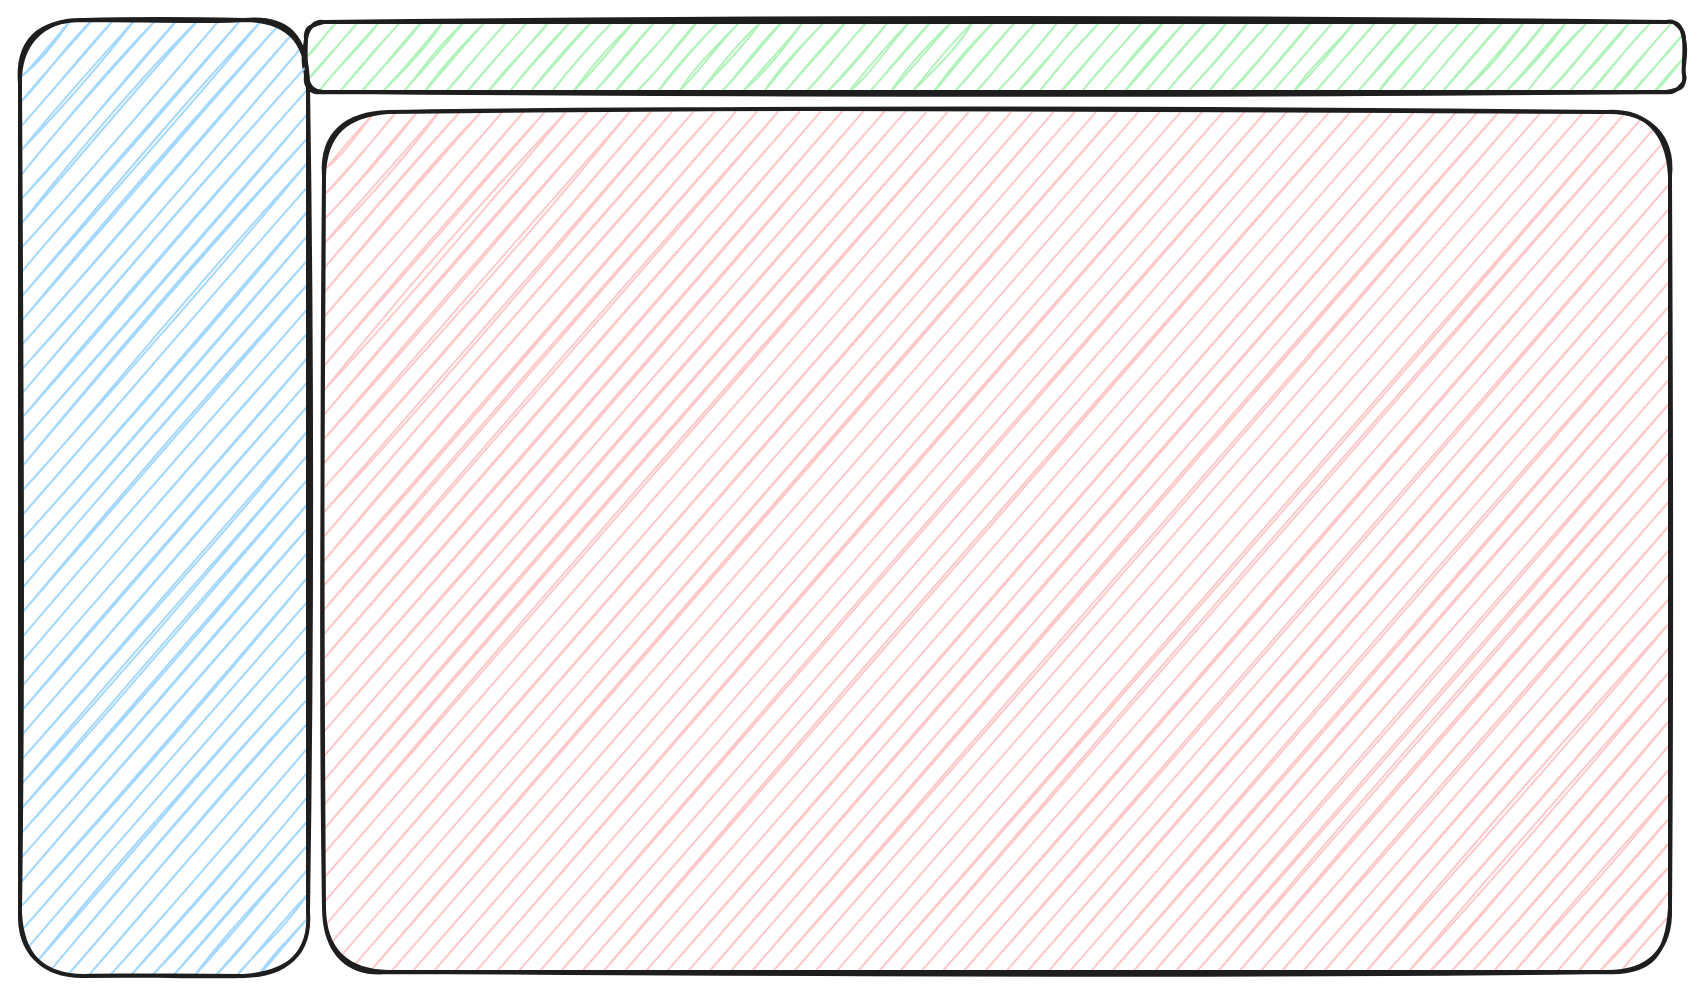
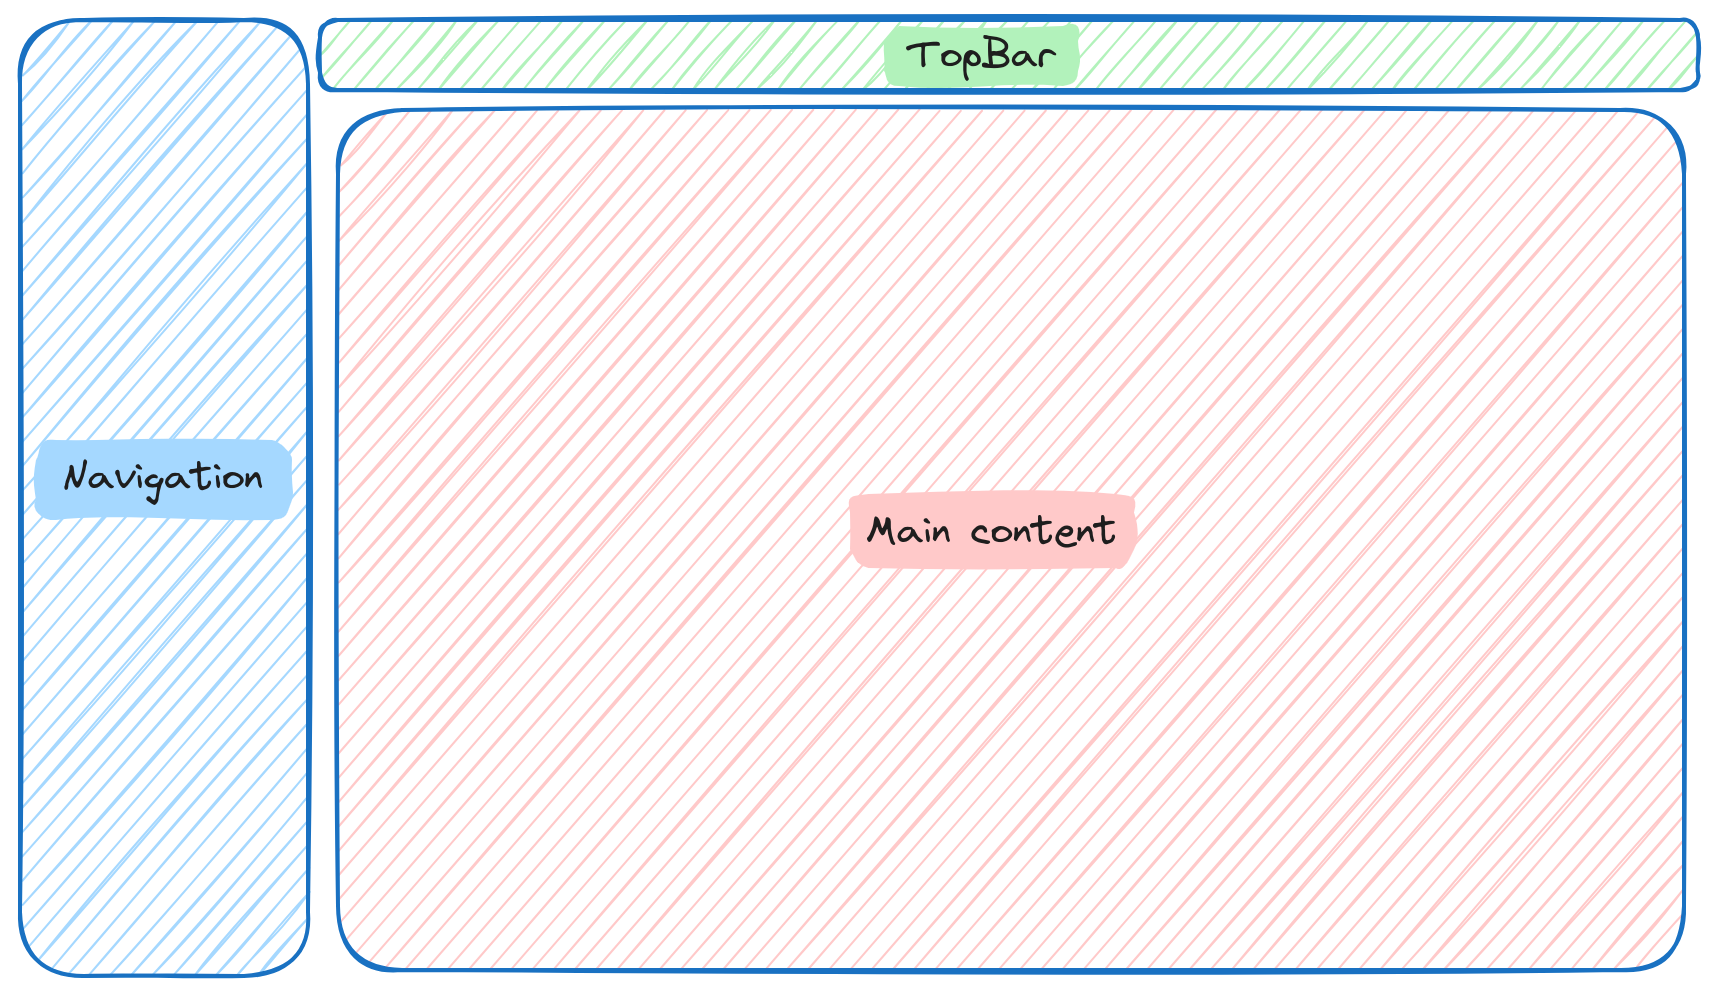
feat: rename utility section to utility slot and update docs

Changed region(s): [[0.0, 0.0, 0.9953, 0.996]]

diff --git a/src/ui/TopBar/TopBar.tsx b/src/ui/TopBar/TopBar.tsx
@@ -2,16 +2,16 @@ import { Global } from '@emotion/react';
 import { useBreakpoints, useTheme } from '@orfium/ictinus';
 import { ReactNode } from 'react';
 import Logo from '../../assets/orfium_logo.svg';
-import { _useTopBarUtilitySection } from '../../hooks/useTopBarUtilitySection';
+import { _useTopBarUtilitySlot } from '../../hooks/useTopBarUtilitySlot';
 import UserMenu, { UserMenuProps } from './components/UserMenu';
-import { backGround, TopAppBarWrapper, UserDefinedSection, UserSection } from './TopBar.styles';
+import { backGround, TopAppBarWrapper, UserDefinedSlot, UserSection } from './TopBar.styles';
 
 export type TopBarProps = {
-  utilitySection?: ReactNode;
+  utilitySlot?: ReactNode;
 } & Partial<UserMenuProps>;
 
-export function TopBar({ utilitySection, menuItems = [] }: TopBarProps) {
-  const { topBarUtilitySection } = _useTopBarUtilitySection();
+export function TopBar({ utilitySlot, menuItems = [] }: TopBarProps) {
+  const { topBarUtilitySlot } = _useTopBarUtilitySlot();
   const theme = useTheme();
   const breakpoints = useBreakpoints();
   const isDesktop = breakpoints.des1366;
@@ -20,7 +20,7 @@ export function TopBar({ utilitySection, menuItems = [] }: TopBarProps) {
     <TopAppBarWrapper role="banner" aria-label="Top Application Banner">
       <Global styles={{ body: backGround(theme) }} />
       {isDesktop ? null : <img alt={'Orfium logo'} src={Logo} height={28} width={28} />}
-      <UserDefinedSection>{topBarUtilitySection || utilitySection}</UserDefinedSection>
+      <UserDefinedSlot>{topBarUtilitySlot || utilitySlot}</UserDefinedSlot>
       <UserSection>
         <UserMenu menuItems={menuItems} />
       </UserSection>

diff --git a/src/providers/Toolbox/Toolbox.tsx b/src/providers/Toolbox/Toolbox.tsx
@@ -10,7 +10,7 @@ import ErrorFallback from '../../ui/ErrorFallback/ErrorFallback';
 import { Authentication } from '../Authentication';
 import { OrfiumProducts } from '../OrfiumProducts';
 import { Organizations } from '../Organizations';
-import { TopBarUtilitySection } from '../TopBarUtilitySection';
+import { TopBarUtilitySlot } from '../TopBarUtilitySlot';
 import { Box, LoadingContent, Wrapper } from './Toolbox.style';
 
 export type ToolboxProps = { children: ReactNode };
@@ -31,9 +31,9 @@ export function Toolbox({ children }: ToolboxProps) {
       <Organizations>
         <Authentication>
           <OrfiumProducts>
-            <TopBarUtilitySection>
+            <TopBarUtilitySlot>
               <AuthenticationWrapper>{children}</AuthenticationWrapper>
-            </TopBarUtilitySection>
+            </TopBarUtilitySlot>
           </OrfiumProducts>
         </Authentication>
       </Organizations>

diff --git a/src/hooks/useTopBarUtilitySlot.ts b/src/hooks/useTopBarUtilitySlot.ts
@@ -1,0 +1,17 @@
+import { ReactNode, useContext, useEffect } from 'react';
+import { TopBarUtilitySlotContext } from '../contexts/top-bar-utility-slot';
+
+export const _useTopBarUtilitySlot = () => useContext(TopBarUtilitySlotContext);
+export const useTopBarUtilitySlot = (topBarUtilitySlotElement: ReactNode) => {
+  const { setTopBarUtilitySlot } = useContext(TopBarUtilitySlotContext);
+
+  useEffect(() => {
+    setTopBarUtilitySlot(topBarUtilitySlotElement);
+
+    return function () {
+      setTopBarUtilitySlot(null);
+    };
+  }, [setTopBarUtilitySlot, topBarUtilitySlotElement]);
+};
+
+export type UseTopBarUtilitySlotReturnValue = undefined;

diff --git a/src/providers/TopBarUtilitySlot.tsx b/src/providers/TopBarUtilitySlot.tsx
@@ -1,0 +1,18 @@
+import { ReactNode, useState } from 'react';
+import { TopBarUtilitySlotContext } from '../contexts/top-bar-utility-slot';
+
+export function TopBarUtilitySlot(props: { children: ReactNode }) {
+  const { children } = props;
+  const [topBarUtilitySlot, setTopBarUtilitySlot] = useState<ReactNode>(null);
+
+  return (
+    <TopBarUtilitySlotContext.Provider
+      value={{
+        topBarUtilitySlot: topBarUtilitySlot,
+        setTopBarUtilitySlot: setTopBarUtilitySlot,
+      }}
+    >
+      {children}
+    </TopBarUtilitySlotContext.Provider>
+  );
+}

diff --git a/src/contexts/top-bar-utility-slot.ts b/src/contexts/top-bar-utility-slot.ts
@@ -1,0 +1,14 @@
+import { createContext, Dispatch, ReactNode, SetStateAction } from 'react';
+
+export type TopBarUtilitySlotContextValue = {
+  topBarUtilitySlot: ReactNode;
+  setTopBarUtilitySlot: Dispatch<SetStateAction<ReactNode>>;
+};
+
+export const defaultTopBarUtilitySlotContextValue: TopBarUtilitySlotContextValue = {
+  topBarUtilitySlot: null,
+  setTopBarUtilitySlot: () => {},
+};
+export const TopBarUtilitySlotContext = createContext<TopBarUtilitySlotContextValue>(
+  defaultTopBarUtilitySlotContextValue
+);

diff --git a/src/hooks/index.ts b/src/hooks/index.ts
@@ -4,7 +4,4 @@ export { useOrfiumProducts, type UseOrfiumProductsReturnValue } from './useOrfiu
 export { useOrganizations, type UseOrganizationsReturnValue } from './useOrganizations';
 export { useSafeContext } from './useSafeContext';
 export { useSafeDispatch } from './useSafeDispatch';
-export {
-  useTopBarUtilitySection,
-  type UseTopBarUtilitySectionReturnValue,
-} from './useTopBarUtilitySection';
+export { useTopBarUtilitySlot } from './useTopBarUtilitySlot';

diff --git a/src/ui/TopBar/TopBar.styles.ts b/src/ui/TopBar/TopBar.styles.ts
@@ -27,7 +27,7 @@ export const UserSection = styled.div`
   ${topAppBarSectionStyles};
   flex-shrink: 0;
 `;
-export const UserDefinedSection = styled.div`
+export const UserDefinedSlot = styled.div`
   ${topAppBarSectionStyles};
   flex-grow: 1;
   justify-content: flex-start;

diff --git a/documentation/docs/tutorials/01-Installation and Usage/UI/top-bar-component.md b/documentation/docs/tutorials/01-Installation and Usage/UI/top-bar-component.md
@@ -14,6 +14,8 @@ logged-in user, and it's also home to the user menu, which includes a list of av
 The component provides a utility slot that sits on the left side, where the user can opt to display things such as
 breadcrumbs, or whatever is necessary based on product requirements.
 
+![TopBar layout](/img/top-bar.png)
+
 ## Usage
 
 In order to use the `TopBar` component you only have to import it from `@orfium/toolbox` and add it to the file where you build your product's overall layout.
@@ -32,8 +34,8 @@ function Page() {
       // highlight-next-line
       <header>
         <TopBar
-        menuItems={[{ text: 'Settings', url: 'one.orfium.com/settings', iconName: 'settings' }]}
-        utilitySection={<div>hello there</div>}
+          menuItems={[{ text: 'Settings', url: 'one.orfium.com/settings', iconName: 'settings' }]}
+          utilitySlot={<div>hello there</div>}
         />
       </header>
       // rest of the page

diff --git a/documentation/docs/api/_type-definitions/TopBarProps.md b/documentation/docs/api/_type-definitions/TopBarProps.md
@@ -1,4 +1,4 @@
 | Name               | Type                                                                                               |
 | :----------------- | :------------------------------------------------------------------------------------------------- |
-| ` utilitySection?` | `ReactNode`                                                                                        |
+| ` utilitySlot?` | `ReactNode`                                                                                        |
 | `menuItems?`       | <pre>\{ <br/> text: string; <br/> url: string; <br/> iconName?: AcceptedIconNames; <br/>\}[]</pre> |
